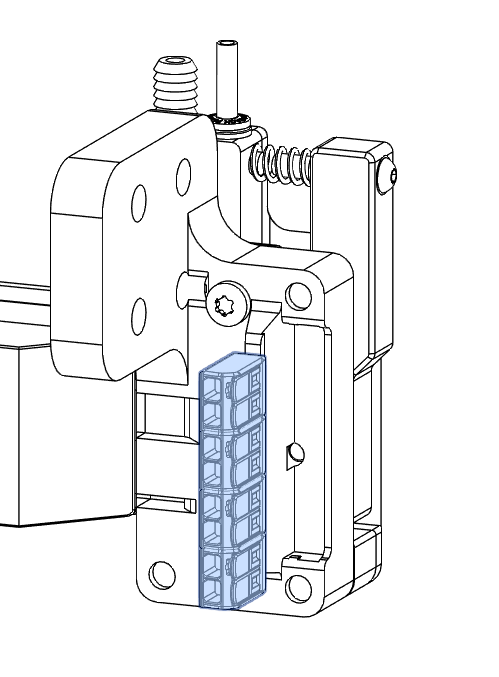
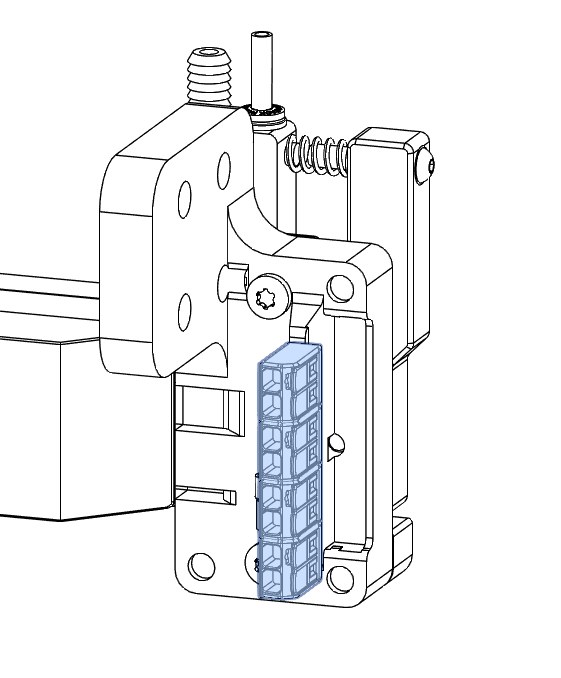
FINAL PIC UPDATES

Changed region(s): [[0.0, 0.031, 0.8116, 0.9306]]

diff --git a/docs/wire-tool-v1.1/user-manual/index.md b/docs/wire-tool-v1.1/user-manual/index.md
@@ -323,8 +323,11 @@ Requires:
 
 ![Tool_Mount_Assm](images/ASSM_Tool_Mount_1.png)
 ![Tool_Mount_Assm](images/ASSM_Tool_Mount_2.png)
+### Ground Wire
 
 **NOTE.** The grounding wire ring terminal must be installed with the *lower M5x16 BHCS* at this point. It is important that you install the grounding stap on the lower position as that is the only hole on the endoskeleton that has not been anodized. An anodized layer will prevent grounding of the frame.
+
+Grounding is done for safety and EMI reduction.
 
 ![Tool_Mount_Assm](images/ASSM_Tool_Mount_3.png)
 ![Tool_Mount_Assm](images/ASSM_Tool_Mount_4.png)
@@ -334,43 +337,21 @@ Requires:
 ## Wiring
 While simple, proper wiring of the WT-01 is critical. Ensure all of the following electrical connections are well secured. 
 
-### WC Block and Cathode Wire
+### Energizer Screw and Cathode Wire
 
-The WC block is the component that connects the cutting wire to the circuit. Ensuring a solid and long term electrical connection is important for reliability and safety. After installation of WC block and cathode wire, potting of the connection with hot glue is strongly recommended. Potting will help to prevent oxidation of the connector, improving lifetime.
-
-After installation and potting, route the cathode wire through the integrated wire run in the lower back base 3D print to the Wago bank on the tool mount print. Fastener cap should be added to the M6 screw for added safety. This may be applied with waterproof adhesive of choice.
+The Energizer Screw is the component that connects the cutting wire to the circuit. Ensuring a solid and long term electrical connection is important for reliability and safety. After installation, potting of the connection with hot glue is strongly recommended. Potting will help to prevent oxidation of the connector, improving lifetime.
 
 Requires:
-- WC Block
-- Insulating Boss
-- M6x30 Button Head Cap Screw
-- M6 Nylock
 - Cathode Wire
+- M5x20 BHCS
+- Hot Glue
 
 ![WC_Block_Assm](images/ASSM_WC_Block_1.png)
 ![WC_Block_Assm](images/ASSM_WC_Block_2.png)
-![WC_Block_Assm](images/ASSM_WC_Block_3.png)
 
-**ALERT.** Please pot the electrical connection at this point. Hot glue will provide some protection against water for this connection. 3D print is designed to act as a potting cup and may be filled completely with glue. Lower temperature plastics like PLA may be damaged by potting entire cavity at once. Several steps may be required, allowing time to cool between each. 
+Thread fastener through threads in 3D print. Route wire through recess in 3D print. Insert into Wago.
 
-![WC_Block_Assm](images/ASSM_WC_Block_4.png)
-
-### Ground Wire
-
-The grounding wire is secured with a self tapping screw. This screw cuts into the endoskeleton and grounds it. This is done for safety and EMI reduction.
-
-**ALERT.** Users have reported shearing of the screw head during installation. It is highly recommended to thread this hole manually with an 8-32 tap prior to installation. If unable to tap this hole, it is recommended to use a fastener with a clearly visible cutting tip with recess for chips. Rack Robotics is working on a fix.
-
-Requires:
-- Self Tapping Screw
-- Ground Wire
-
-![Ground_Screw_Assm](images/ASSM_Ground_Screw_1.png)
-![Ground_Screw_Assm](images/ASSM_Ground_Screw_2.png)
-
-**ALERT.** Users have reported that over torquing the self tapping fastener shears off fastener head. Apply gentle pressure *by hand* when installing this part.
-
-![Ground_Screw_Assm](images/ASSM_Ground_Screw_3.png)
+**ALERT.** Pot the electrical connection at this point. Hot glue will provide some protection against water for this connection. The 3D print is designed to act as a potting cup and may be filled partially with glue. Lower temperature plastics like PLA may be damaged by potting entire cavity at once. Several steps may be required, allowing time to cool between each. 
 
 ### Power Connections
 
@@ -423,11 +404,6 @@ The wire tool supports dielectric flushing. Flushing dramatically improves cutti
 ## Troubleshooting
 
 (TO BE ADDED)
-
-## Drawings
-
-![Wire Tool V1.1](images/WT-01_page_1.png)
-![Wire Tool V1.1](images/WT-01_page_2.png)
 
 ## Contributing
 
